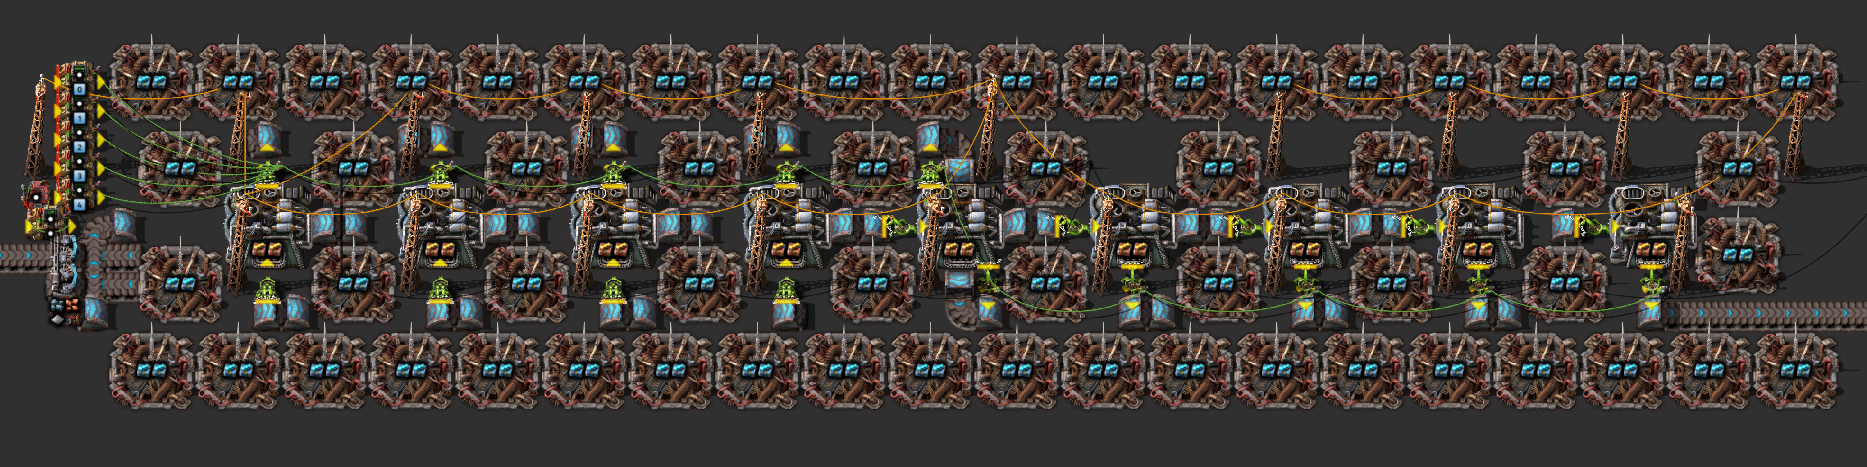
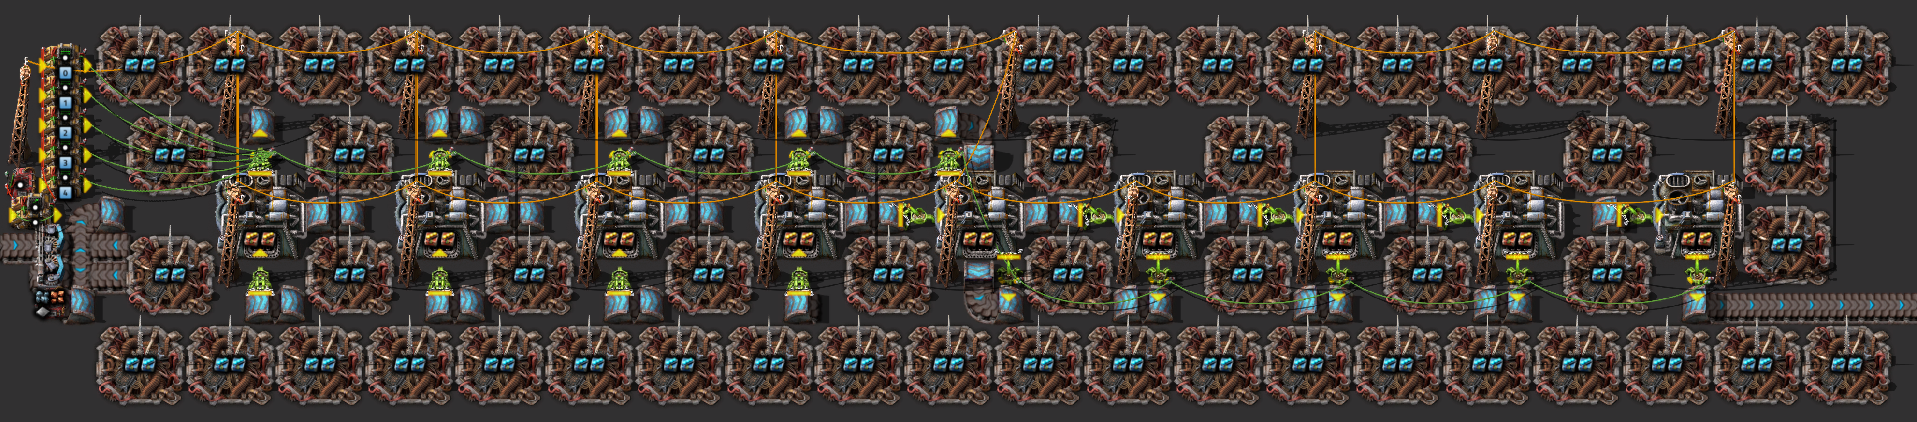
updated blueprints

diff --git a/docs/RawResourcesProcessing/BigOreFoundry.md b/docs/RawResourcesProcessing/BigOreFoundry.md
@@ -57,14 +57,14 @@
 ![Плавим руду большими кузницами](../_images/RawResourcesProcessing/BigOreFoundry.01.png)
 
 ```blueprint
[2 lines of base64/hex data omitted]
 ```
 
 Идея у нас тут такая, что первые четыре печи выгружают на одну сторону конвейера, потом одна печь выгружает и туда и сюда, оставшиеся четыре печи выгружают на вторую сторону конвейера. Итого, девять печей, ускоренные маяками. Все манипуляторы соединены между собой и подключены к компуктеру. Компуктер выдаёт такие значения, что выгрузка происходит полными пачками, по дюжине предметов за раз. При этом манипуляторы срабатывают только тогда, когда есть свободное место на конвейере. Ву а ля.
 
 Чертёж стыкуется по линии маяков, вверх и вниз. Можно повторять до кучи таких чертежей, объединяя всё это в большую кузницу. Копировать компуктер в каждый новый стык не нужно, одного генератора импульсов хватает. Достаточно соединить зелёным проводом крайние манипуляторы посередине чертежа, надеюсь сообразить какие.
 
-Использовать его можно только для плавки `Iron ore` и `Copper ore`. Для `Stone` не подходит, но можно попытаться подобрать нужные значения. Подбирайте и делитесь, посмотрим что у вас выйдет. Хотя камней много и не нужно и обычной кузницы вполне хватает. Что касается плавки стальных балок, тут всё сложно до невозможности.
+Использовать его можно только для плавки `Iron ore` и `Copper ore`. Для `Stone` не подходит, но можно попытаться подобрать нужные значения. Подбирайте и делитесь, посмотрим что у вас выйдет. Хотя камней много и не нужно и [обычной кузницы вполне хватает](./README.md#после-запуска-первого-спутника). Что касается плавки стальных балок, тут всё сложно до невозможности.
 
 Стоит ли применять такой чертёж в игре? Ну смотря в какой игре. А вообще, решайте сами, когда доиграетесь до такого момента, что сможете построить и обслуживать эту махину. Свои мнения пишите в комментариях ТвоегоТуба, ну вы поняли, индекс цитирования.
 
